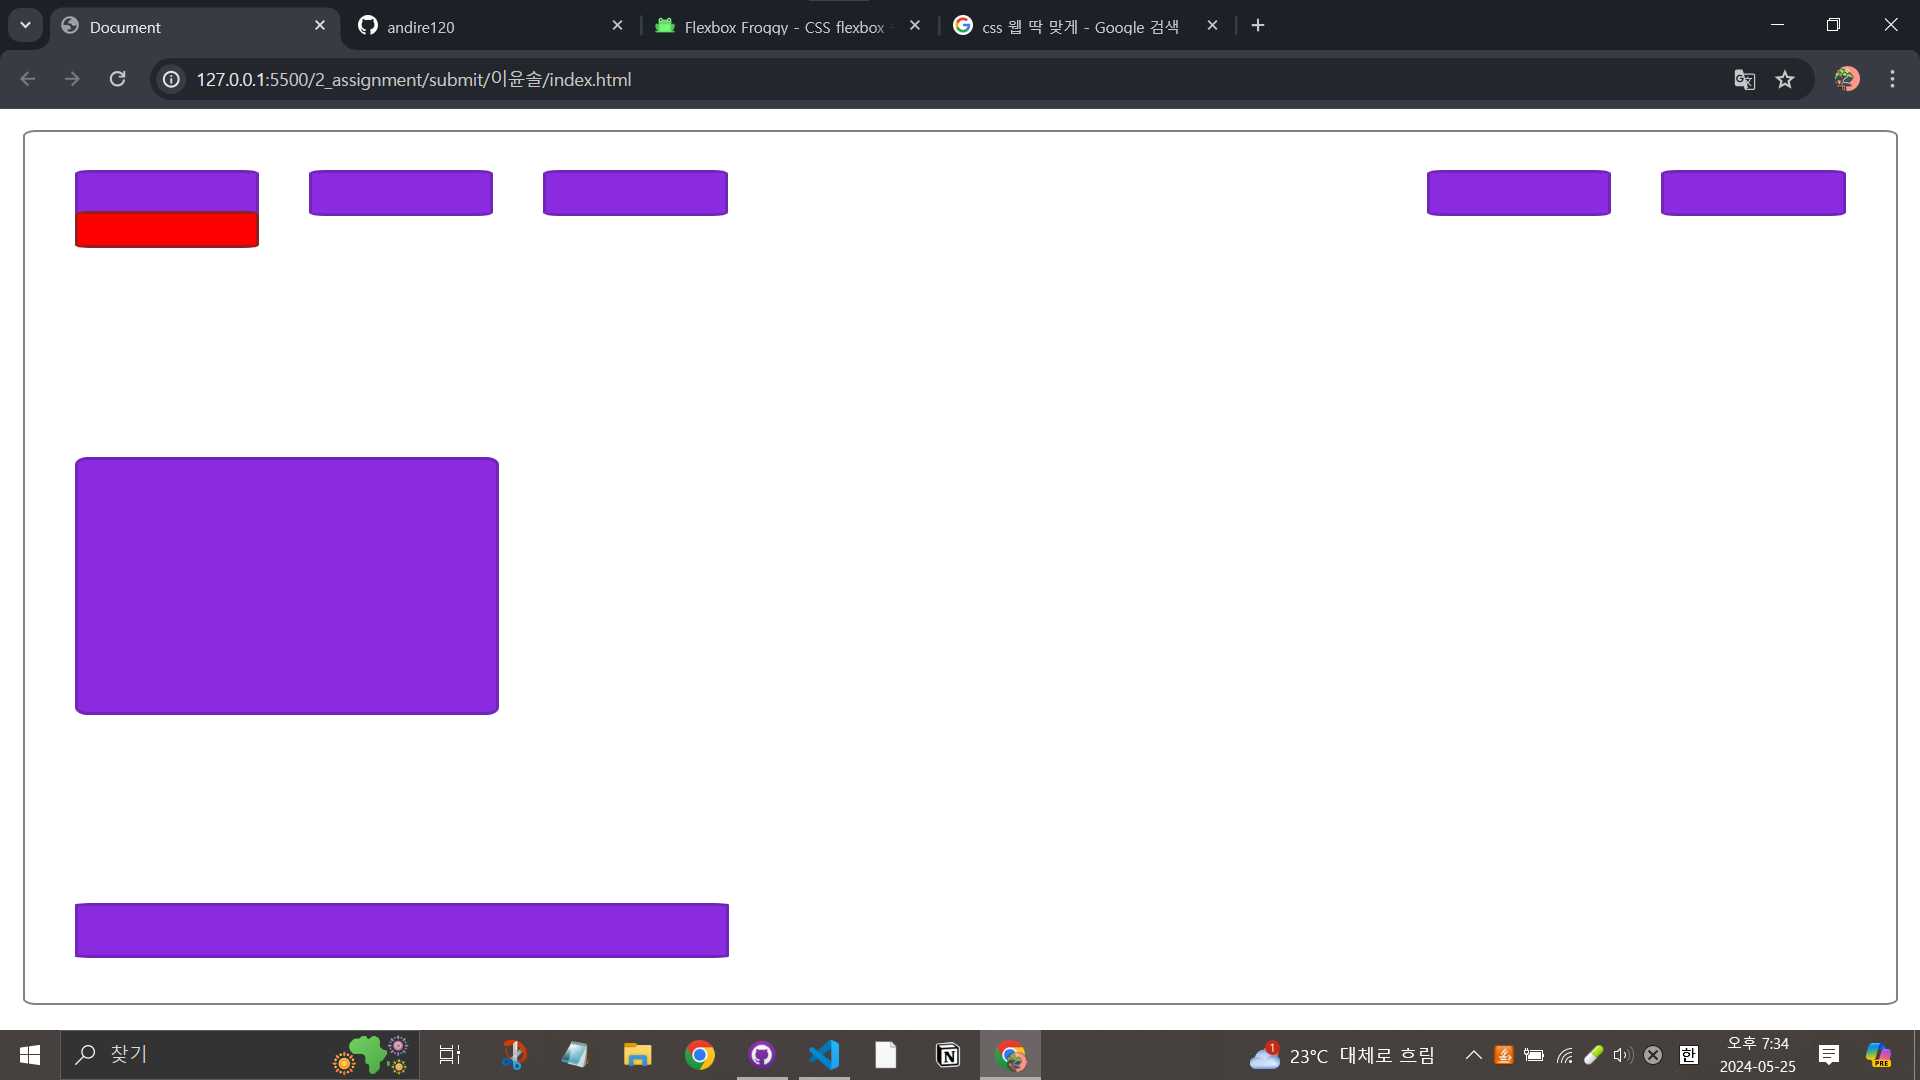
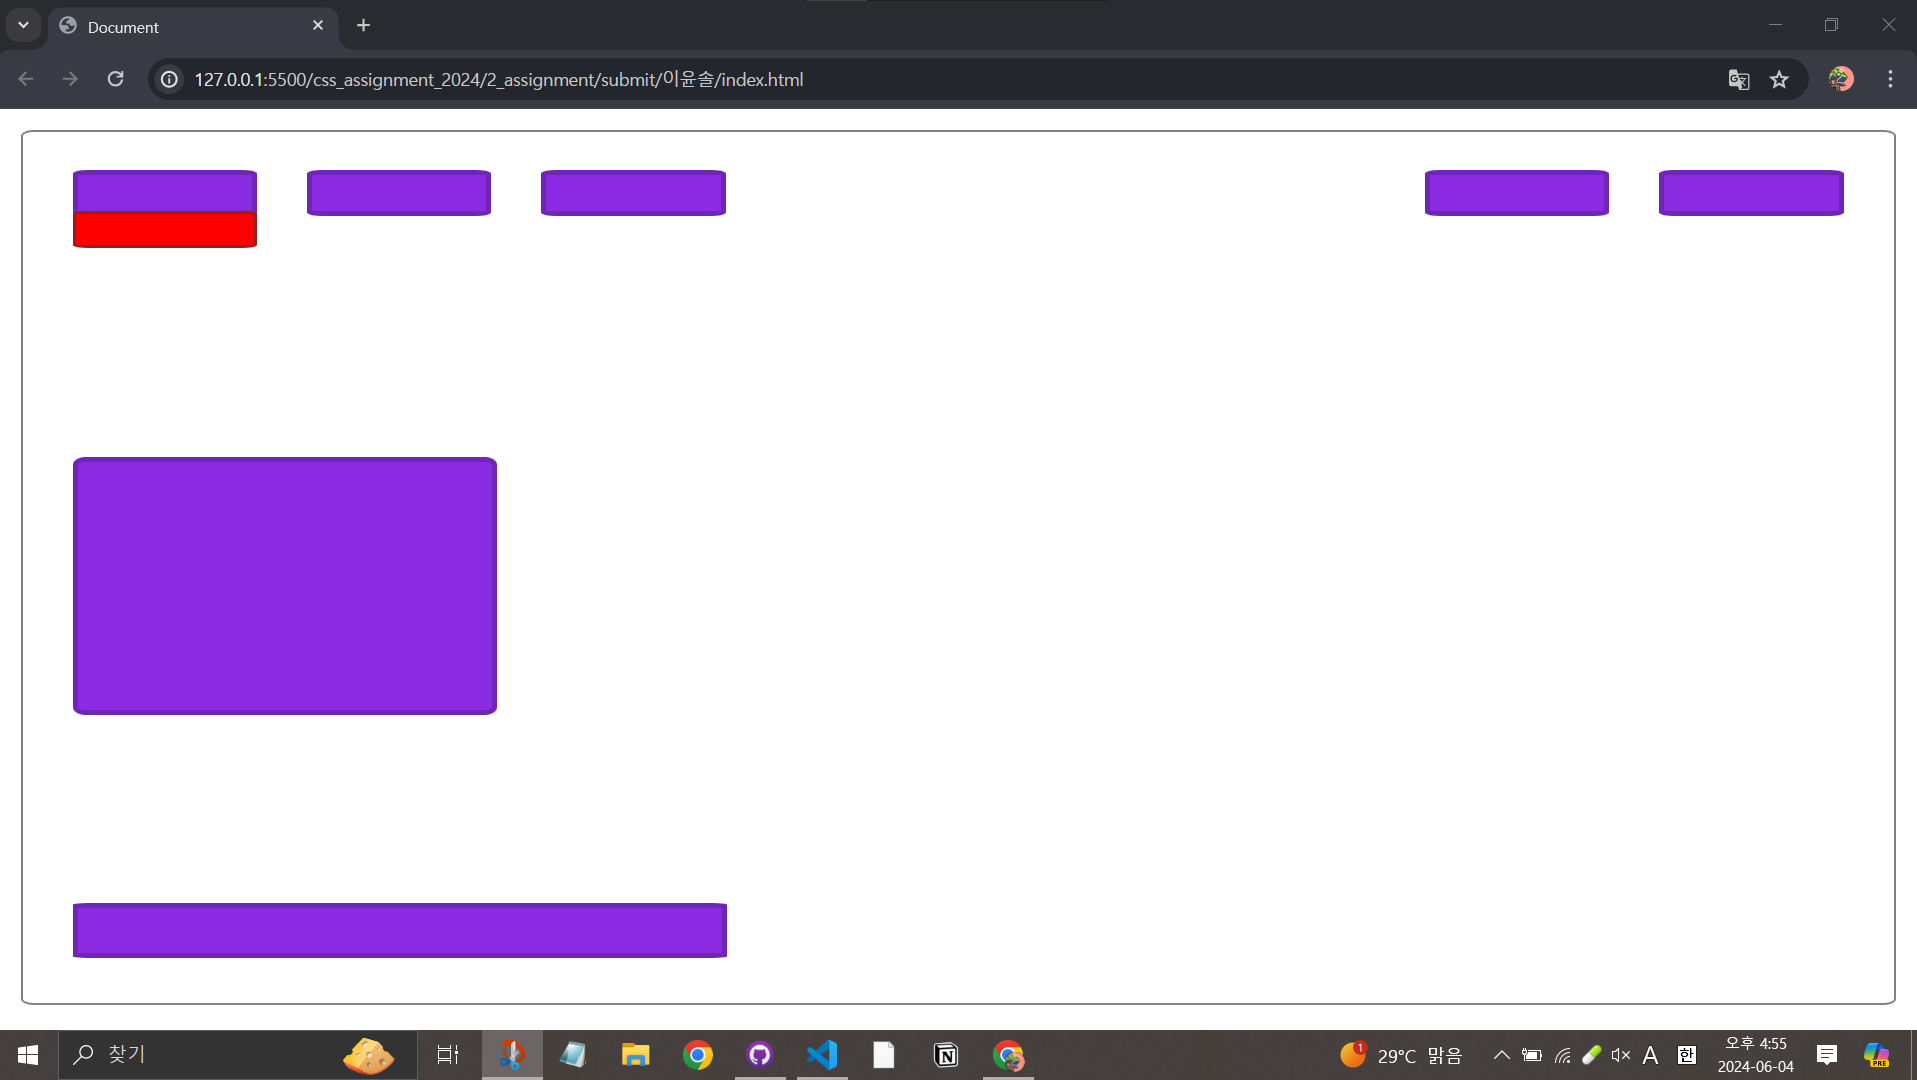
2번커밋

diff --git a/2_assignment/submit/이윤솔/style.css b/2_assignment/submit/이윤솔/style.css
@@ -41,7 +41,7 @@ body {
 
   border-color: #6f25b5;
   border-style: solid;
-  border-width: 3px;
+  border-width: 4px;
   border-radius: 8%;
 
   z-index: 1;
@@ -62,7 +62,7 @@ body {
 
   border-color: #6f25b5;
   border-style: solid;
-  border-width: 3px;
+  border-width: 4px;
   border-radius: 8%;
 }
 .redbox {
@@ -99,7 +99,7 @@ body {
 
   border-color: #6f25b5;
   border-style: solid;
-  border-width: 3px;
+  border-width: 4px;
   border-radius: 8%;
 }
 
@@ -117,7 +117,7 @@ body {
 
   border-color: #6f25b5;
   border-style: solid;
-  border-width: 3px;
+  border-width: 4px;
   border-radius: 3%;
 }
 
@@ -135,6 +135,6 @@ body {
 
   border-color: #6f25b5;
   border-style: solid;
-  border-width: 3px;
+  border-width: 4px;
   border-radius: 3%;
 }
